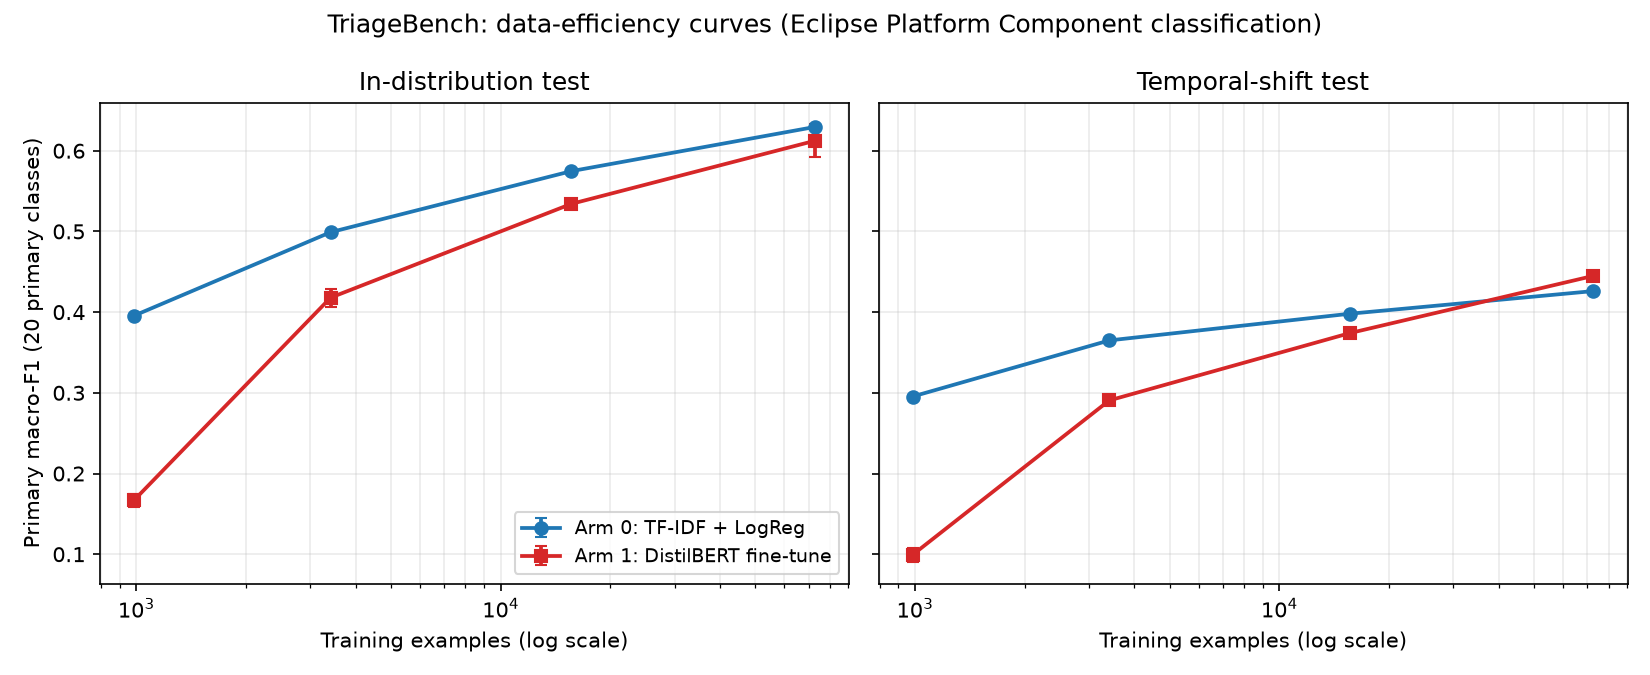
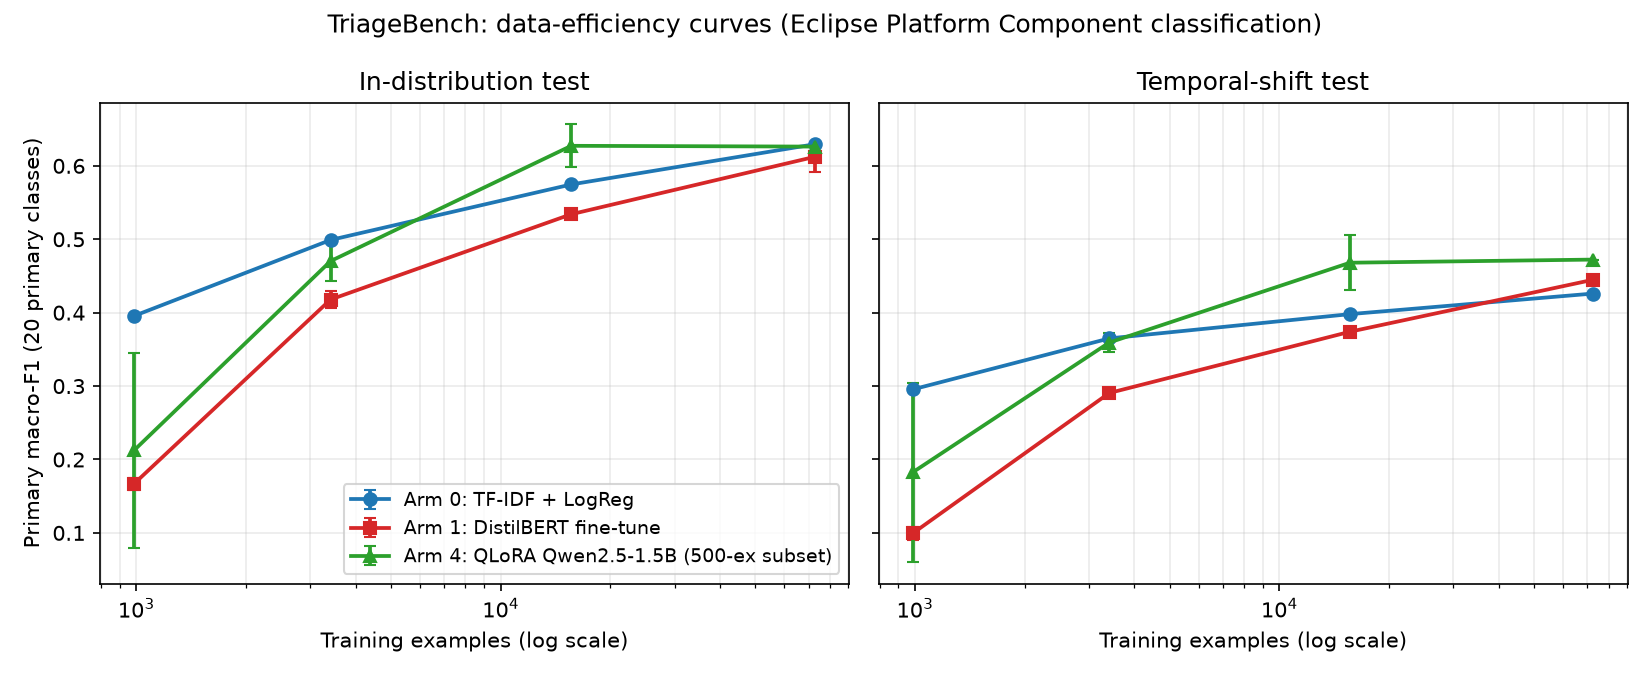
feat: Arm 4 full regime (seed 0) evaluated; Arm 4 complete
Full-data QLoRA: primary macro-F1 0.6262 test-ID / 0.4723 test-shift on
the frozen 500-example subset, a plateau vs. 1000/class. At full data
Arms 0, 1 and 4 are statistically indistinguishable on test-ID; no winner
claimed. Adds Arm 4 to plots, RESULTS.md and EXPERIMENT_LOG.md, with
subset-vs-full-test and single-seed caveats documented.

diff --git a/scripts/generate_plots.py b/scripts/generate_plots.py
@@ -19,6 +19,7 @@ REGIME_ORDER = ["50", "200", "1000", "full"]
 ARM_STYLE = {
     "arm0_tfidf_logreg": {"label": "Arm 0: TF-IDF + LogReg", "color": "#1f77b4", "marker": "o"},
     "arm1_distilbert_finetune": {"label": "Arm 1: DistilBERT fine-tune", "color": "#d62728", "marker": "s"},
+    "arm4_qlora_finetune": {"label": "Arm 4: QLoRA Qwen2.5-1.5B (500-ex subset)", "color": "#2ca02c", "marker": "^"},
 }
 
 

diff --git a/docs/RESULTS.md b/docs/RESULTS.md
@@ -1,6 +1,6 @@
 # Results
 
-Status: **in progress.** Arm 0 and Arm 1 complete; Arms 2-5 pending. Every
+Status: **in progress.** Arms 0-4 complete; Arm 5 unavailable (no API credentials). Every
 number below is read directly from `reports/results/*.json` (via
 `scripts/aggregate_results.py` for the data-efficiency table) -- nothing
 here is typed in ahead of the corresponding experiment. See
@@ -99,29 +99,30 @@ outperform classical ML given even minimal supervision. This is a real,
 evidence-based answer to one of the project's central questions, not
 assumed in either direction ahead of time.
 
-## Arm 4: QLoRA fine-tune of the same small LLM (in progress)
+## Arm 4: QLoRA fine-tune of the same small LLM (complete)
 
 Source: `reports/results/arm4/*.json`. Model: same base as Arms 2/3
 (`mlx-community/Qwen2.5-1.5B-Instruct-4bit`), LoRA adapters (rank 8, all
 28 layers) trained via `mlx-lm`'s native QLoRA support on Apple M5, $0
 cost. Evaluated on the SAME fixed 500-example paired subset as Arms
 2/3, using the same engineered prompt template used for training.
-**Status: regimes 50/class, 200/class, and 1000/class complete (3
-seeds each); full pending --
-see `docs/EXPERIMENT_LOG.md` EXP-007 for the pre-committed seed/regime
-scaling plan (full regime will run at seed 0 only, a documented
-resource-practicality limitation, not a shortcut chosen after seeing
-results). Note: some Arm 4 `train_seconds` values include macOS
-Clamshell/Maintenance-Sleep wall-clock inflation from long unattended
-local runs (`caffeinate -i` does not prevent lid-closed sleep) --
-training correctness is unaffected; see EXP-007 for the diagnosis and
-corrected active-compute estimates.**
+**Status: complete. Regimes 50/200/1000 per class have 3 seeds each; the
+full regime has seed 0 only** (pre-committed on compute grounds in
+`docs/EXPERIMENT_LOG.md` EXP-007, before any Arm 4 result existed --
+one full-regime seed is ~14-16h of active compute on this laptop).
+Full-regime seed 0 first ran to iteration 10,896 and was lost to an
+unexplained reboot (logged in EXP-007), then was rerun unchanged. Some
+Arm 4 `train_seconds` values (e.g. full regime: 87,683.9s wall-clock)
+include macOS sleep wall-clock inflation from long unattended local
+runs (`caffeinate -i` does not prevent lid-closed sleep); training
+correctness is unaffected, but those values are not compute cost.
 
 | Regime | n_train | primary macro-F1 (test-ID) | primary macro-F1 (test-shift) |
 |---|---:|---:|---:|
 | 50/class (3 seeds) | 985 | 0.2123 ± 0.1333 | 0.1824 ± 0.1217 |
 | 200/class (3 seeds) | 3,412 | 0.4703 ± 0.0267 | 0.3593 ± 0.0127 |
 | 1000/class (3 seeds) | 15,614 | 0.6273 ± 0.0292 | 0.4680 ± 0.0375 |
+| full (seed 0 only) | 72,736 | 0.6262 | 0.4723 |
 
 Per-seed detail (50/class): seed 0 = 0.2968 / 0.2599, seed 1 = 0.3161 /
 0.2768, **seed 2 = 0.0241 / 0.0106 (a genuine LoRA mode collapse -- the
@@ -130,7 +131,8 @@ label; see EXP-007 for the full diagnosis)**. Per-seed detail
 (200/class, no collapse in any seed): seed 0 = 0.4326 / 0.3447, seed 1
 = 0.4913 / 0.3578, seed 2 = 0.4869 / 0.3756. Per-seed detail
 (1000/class, no collapse in any seed): seed 0 = 0.6568 / 0.4281, seed 1
-= 0.6375 / 0.5182, seed 2 = 0.5875 / 0.4579.
+= 0.6375 / 0.5182, seed 2 = 0.5875 / 0.4579. Full regime seed 0 =
+0.6262 / 0.4723.
 
 **Findings so far**:
 - At 50/class, QLoRA fine-tuning substantially outperforms both
@@ -166,10 +168,59 @@ label; see EXP-007 for the full diagnosis)**. Per-seed detail
   fine-tuning is the best-performing arm measured in this project, and
   it holds robustly across seeds, not as a single-run artifact.**
 
+- **At the full regime, Arm 4 plateaus**: 0.6262 test-ID / 0.4723
+  test-shift (seed 0), essentially unchanged from 1000/class
+  (0.6273 / 0.4680) despite 4.7x more training data. Bootstrap 95% CIs
+  (500-example subset): test-ID primary macro-F1 [0.569, 0.705],
+  test-shift [0.401, 0.588]; full micro-F1 0.772 [0.738, 0.810] and
+  0.690 [0.648, 0.730]; 0/500 unparseable on both splits.
+
+### Full-regime comparison, Arms 0-4 (no winner forced)
+
+| Arm | eval set | primary macro-F1 test-ID | primary macro-F1 test-shift | micro-F1 test-ID |
+|---|---|---:|---:|---:|
+| Arm 0 TF-IDF+LogReg (full data) | full test split | 0.6295 [0.593, 0.657] | 0.4261 | 0.7399 |
+| Arm 1 DistilBERT (full data, 3 seeds) | full test split | 0.6123 ± 0.0203 | 0.4449 ± 0.0031 | 0.8097 |
+| Arm 2 naive prompt (no training) | 500-ex subset | 0.1284 | 0.2247 | 0.1660 |
+| Arm 3 engineered prompt (no training) | 500-ex subset | 0.1664 | 0.1996 | 0.2040 |
+| Arm 4 QLoRA (full data, seed 0) | 500-ex subset | 0.6262 [0.569, 0.705] | 0.4723 [0.401, 0.588] | 0.772 |
+
+  - **On test-ID primary macro-F1, Arms 0, 1 and 4 are statistically
+    indistinguishable at full data** (0.6295 / 0.6123 / 0.6262, with
+    Arm 4's interval overlapping both). Arm 4's full-data test-shift
+    point estimate (0.4723) is the highest of the three, but its CI
+    overlaps Arms 0 and 1, so this is not a demonstrated difference.
+  - On full micro-F1 the ordering is Arm 1 (0.8097) > Arm 4 (0.772) >
+    Arm 0 (0.7399); Arm 4's micro-F1 CI [0.738, 0.810] contains both
+    other values.
+  - Arms 2 and 3 (no fine-tuning) are far below every trained arm.
+  - **Comparison caveat**: Arm 4 (and Arms 2/3) are scored on the fixed
+    500-example subset; Arms 0/1 on the full test split. Arm 4's
+    single full-regime seed also carries no seed-variance estimate.
+    The earlier 1000/class advantage (Arm 4 above Arms 0/1 on all 3
+    seeds) should be read with the same subset-noise caveat: the gaps
+    there (~0.05) are comparable to the subset's CI half-width (~0.06).
+  - **Data-efficiency conclusion supported by the evidence**: Arm 4 is
+    unreliable at 50/class (one collapsed seed), roughly at parity with
+    Arm 0 by 200/class, and at or above Arms 0/1 at 1000/class, after
+    which extra data adds nothing measurable for Arm 4 while Arms 0/1
+    keep improving and converge to it. No arm is shown to win at full
+    data.
+  - **Cost/latency**: Arm 4 generation p50 218ms / p95 305ms per
+    example (test-ID, M5 MPS), versus sub-millisecond Arm 0 and ~7ms
+    Arm 1; peak training memory 4.4GB. Arm 4 full-data training was
+    ~14-16h of active compute versus ~2h for Arm 1 and minutes for
+    Arm 0 (wall-clock 24.4h, inflated by sleep).
+  - **Incubator (rare class)**: `rare_class_metrics` is empty for Arm 4
+    because Incubator does not appear in either 500-example subset, so
+    Arm 4's rare-class behavior is NOT MEASURED (Arm 0's full-test
+    rare-class figures are in `reports/results/arm0/`). The subset also
+    lacks PMC/Scripting/Website (test-ID) and Update/WebDAV
+    (test-shift), so primary macro-F1 averages over the remaining
+    primary classes.
+
 ## Pending
 
-- **Arm 4** regimes 200/1000/full: not yet run (in progress -- see
-  above).
 - **Arm 5** (frontier API reference): marked unavailable -- no API
   credentials configured, by explicit user decision (see
   `docs/EXPERIMENT_LOG.md`).

diff --git a/docs/EXPERIMENT_LOG.md b/docs/EXPERIMENT_LOG.md
@@ -837,3 +837,30 @@ Every major run is recorded here, including failures. Chronological order.
   sleeps when the lid closes can fail again; if it does, full regime
   will be reported as BLOCKED by local-compute reliability rather than
   worked around.
+
+## 2026-09-20 — EXP-007 concluded: Arm 4 full-regime seed 0 evaluated
+
+- **Run**: the relaunched full-regime seed-0 run completed 13,638 of
+  13,638 iterations (final val loss 0.163, peak memory 4.399 GB,
+  wall-clock 87,683.9s = 24.4h, inflated by sleep; not a compute-cost
+  figure). Adapter and `train_regime_full_seed0.json` written 2026-09-20
+  05:01. I did not diagnose the sleep periods within this specific run.
+- **Evaluation** (unchanged `scripts/evaluate_lora.py`, same fixed
+  500-example paired subset, same frozen protocol; no retraining, no
+  methodology change): primary macro-F1 **0.6262** test-ID
+  (95% CI [0.569, 0.705]) / **0.4723** test-shift ([0.401, 0.588]);
+  full micro-F1 0.772 [0.738, 0.810] / 0.690 [0.648, 0.730]; 0/500
+  unparseable on both; generation p50 218ms / p95 305ms (test-ID).
+  `rare_class_metrics` is empty because Incubator is absent from both
+  500-example subsets, so Arm 4 rare-class behavior is NOT MEASURED.
+- **Finding**: Arm 4 plateaus -- 0.6262 at full data vs. 0.6273 at
+  1000/class (test-ID). At full data Arms 0 (0.6295), 1 (0.6123) and 4
+  (0.6262) are statistically indistinguishable on test-ID primary
+  macro-F1; Arm 4's test-shift point estimate (0.4723) is the highest
+  but its CI overlaps Arms 0/1. No winner is claimed. Caveats recorded
+  in RESULTS.md: subset (n=500) vs. full-test-set comparison, and a
+  single full-regime seed with no variance estimate (seed-0-only by the
+  pre-committed compute plan, not extended).
+- **Arm 4 is complete**: 3 seeds at 50/200/1000 per class, 1 seed at
+  full. Plots regenerated with Arm 4 added; 126 tests passed, 1
+  skipped, lint clean.
